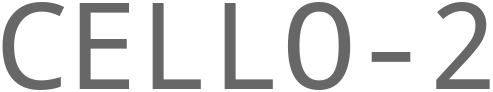
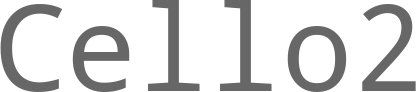
Home page.

diff --git a/src/app/home/home.page.html b/src/app/home/home.page.html
@@ -9,6 +9,7 @@
         <img id="banner" src="assets/images/banner.png">
       </ion-col>
     </ion-row>
+	<ion-row style="height: 1cm"></ion-row>
     <ion-row class="ion-text-center">
       <ion-col offset-xl="4.5" size-xl="1" offset-lg="3" size-lg="2" offset-md="3" size-md="2" offset-sm="3" size-sm="3">
         <ion-button shape="round" expand="block" routerLink="/login">Login</ion-button>

diff --git a/src/index.html b/src/index.html
@@ -3,7 +3,7 @@
 
 <head>
   <meta charset="utf-8" />
-  <title>Cello-2</title>
+  <title>Cello2</title>
 
   <base href="/" />
 
